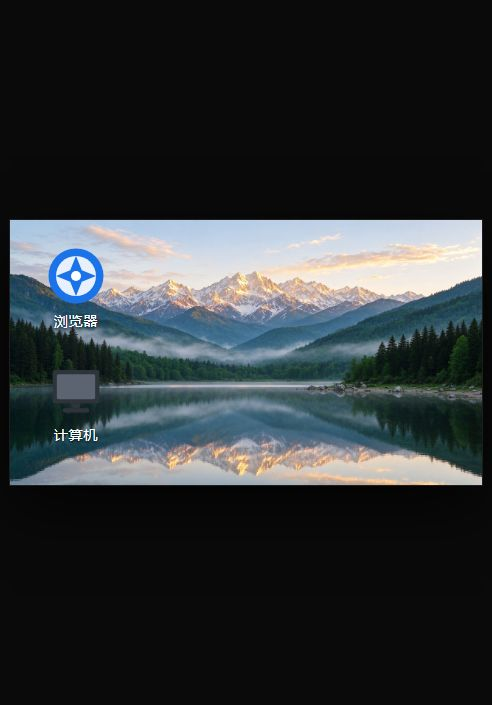
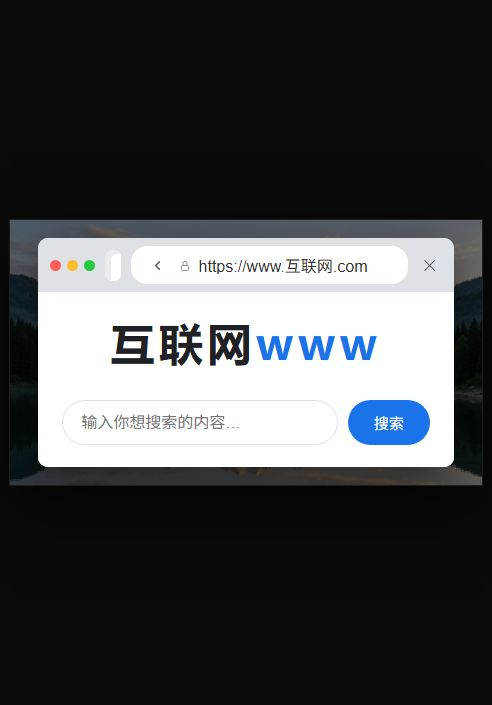
2610061558
Add'‘back’

diff --git a/PC.html b/PC.html
@@ -158,6 +158,21 @@
     min-width: 180px;
     flex-shrink: 0;
   }
+  .nav-back {
+    flex-shrink: 0;
+    width: 26px;
+    height: 26px;
+    border: none;
+    background: transparent;
+    border-radius: 50%;
+    color: #555;
+    cursor: pointer;
+    display: flex;
+    align-items: center;
+    justify-content: center;
+    padding: 0;
+  }
+  .nav-back:hover { background: #eee; }
   .address-bar input {
     border: none;
     outline: none;
@@ -330,6 +345,9 @@
           <div class="browser-dots"><span></span><span></span><span></span></div>
           <div class="browser-tabs" id="tabStrip"></div>
           <div class="address-bar">
+            <button class="nav-back" id="navBack" aria-label="后退">
+              <svg width="15" height="15" viewBox="0 0 24 24" fill="none" stroke="currentColor" stroke-width="2.4" stroke-linecap="round" stroke-linejoin="round" aria-hidden="true"><path d="M15 18l-6-6 6-6"/></svg>
+            </button>
             <span class="lock"><svg width="12" height="12" viewBox="0 0 24 24" fill="none" stroke="#888" stroke-width="2" aria-hidden="true"><rect x="5" y="11" width="14" height="10" rx="2"/><path d="M8 11V7a4 4 0 0 1 8 0v4"/></svg></span>
             <input id="addressInput" value="https://www.互联网.com" readonly>
           </div>
@@ -388,6 +406,7 @@
     { id: 'home', title: '互联网www', type: 'home', url: 'https://www.互联网.com' }
   ];
   var homeView = 'home'; /* home 标签内的视图：home 主页 / search 结果 */
+  var historyStack = ['home']; /* 浏览历史：网页打开顺序（tab id） */
 
   function getTab(id) {
     for (var i = 0; i < tabs.length; i++) {
@@ -444,6 +463,7 @@
     /* 已打开过同一网页则直接切到该标签 */
     for (var i = 0; i < tabs.length; i++) {
       if (tabs[i].type === 'page' && tabs[i].url === url) {
+        historyStack.push(tabs[i].id);
         activateTab(tabs[i].id);
         return;
       }
@@ -461,8 +481,41 @@
     holder.appendChild(iframe);
     document.getElementById('tabPages').appendChild(holder);
 
+    historyStack.push(id);
     activateTab(id);
   }
+
+  function goBack() {
+    /* 从浏览历史中移除当前标签的最近一次记录 */
+    var idx = historyStack.lastIndexOf(activeTabId);
+    if (idx > -1) historyStack.splice(idx, 1);
+
+    var cur = getTab(activeTabId);
+    if (cur && cur.type === 'home') {
+      /* 首页内：搜索结果 → 搜索主页 */
+      if (homeView === 'search') {
+        homeView = 'home';
+        activateTab('home');
+      }
+      /* 已是搜索主页：无可回退 */
+      return;
+    }
+
+    /* 当前是网页标签：关闭它，回到历史中的上一个网页 */
+    closeTab(activeTabId);
+    var lastTab = null;
+    for (var k = historyStack.length - 1; k >= 0; k--) {
+      var t = getTab(historyStack[k]);
+      if (t) { lastTab = t; break; }
+    }
+    if (lastTab) {
+      activateTab(lastTab.id);
+    } else {
+      activateTab('home');
+    }
+  }
+
+  document.getElementById('navBack').addEventListener('click', goBack);
 
   function closeTab(id) {
     var idx = -1;
